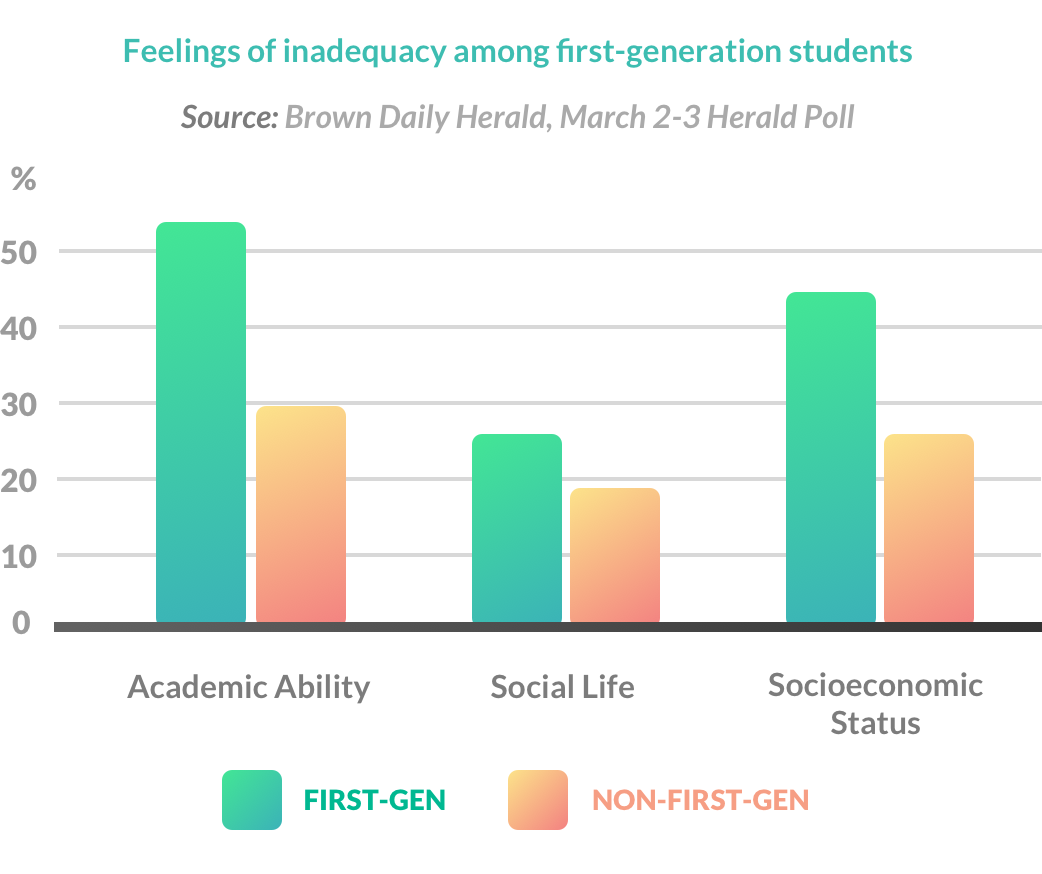
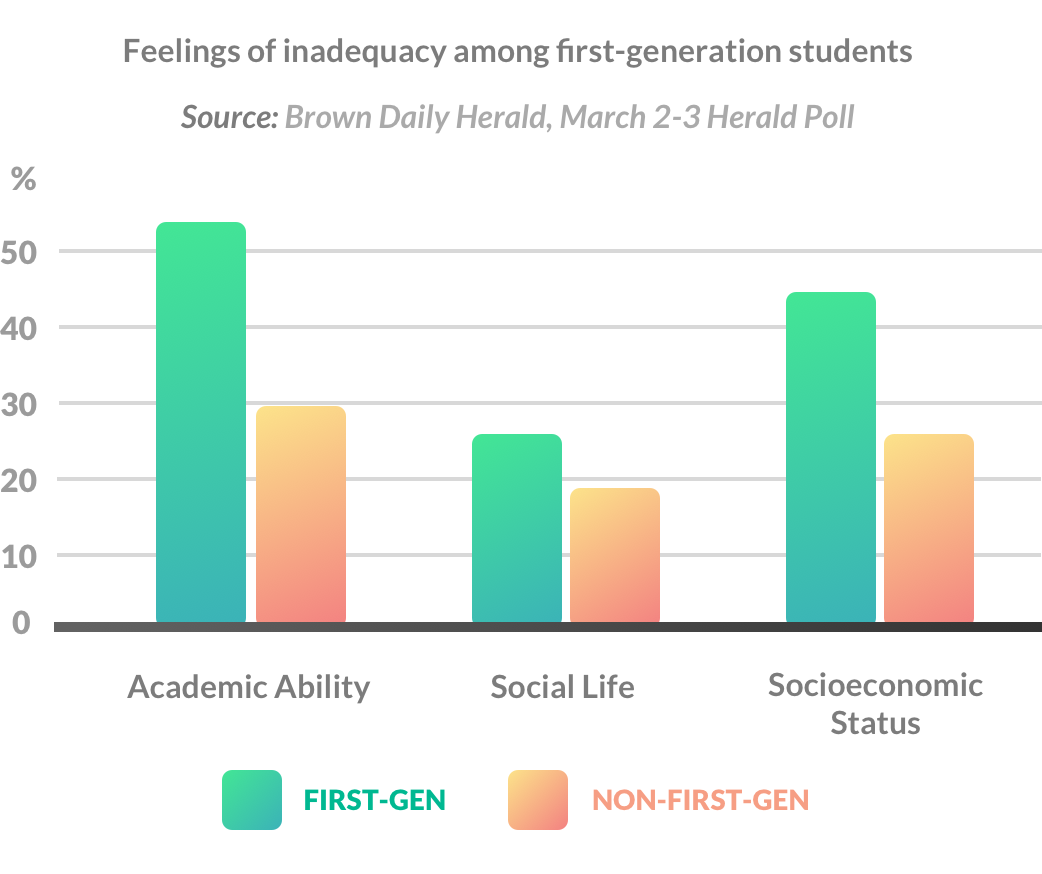
Changed font colors, updated about.html

Changed region(s): [[0.1228, 0.0309, 0.8599, 0.0927]]

diff --git a/css/style.css b/css/style.css
@@ -226,13 +226,13 @@ hr {
 }
 
 .highlight-2 {
-	color: #18D2AB;
+	color: #777788;
 	font-size: 1.2em;
-	font-weight: 400;
+	font-weight: 700;
 }
 
 .highlight-3 {
-	color: #18D2AB;
+	color: #777788;
 	font-size: 0.9em;
 	font-weight: 700;
 	font-style: italic;
@@ -638,7 +638,7 @@ hr {
 
 
 .anchor-link {
-	color: #18D2AB;
+	color: #3AB8B3;
 }
 
 .anchor-link:hover {

diff --git a/about.html b/about.html
@@ -23,10 +23,11 @@
 
 
 	<!-- Navbar start -->
+	<div class="gradient-bar"></div>
 	<nav class="navigation">
 		<div class="nav-logo">
 			<a href="index.html">
-				<img src="images/logo-color.svg">
+				<img src="assets/logo-color.svg">
 			</a>
 		</div>
 		<a class="nav-link" target="_self" href="about.html">About</a>
